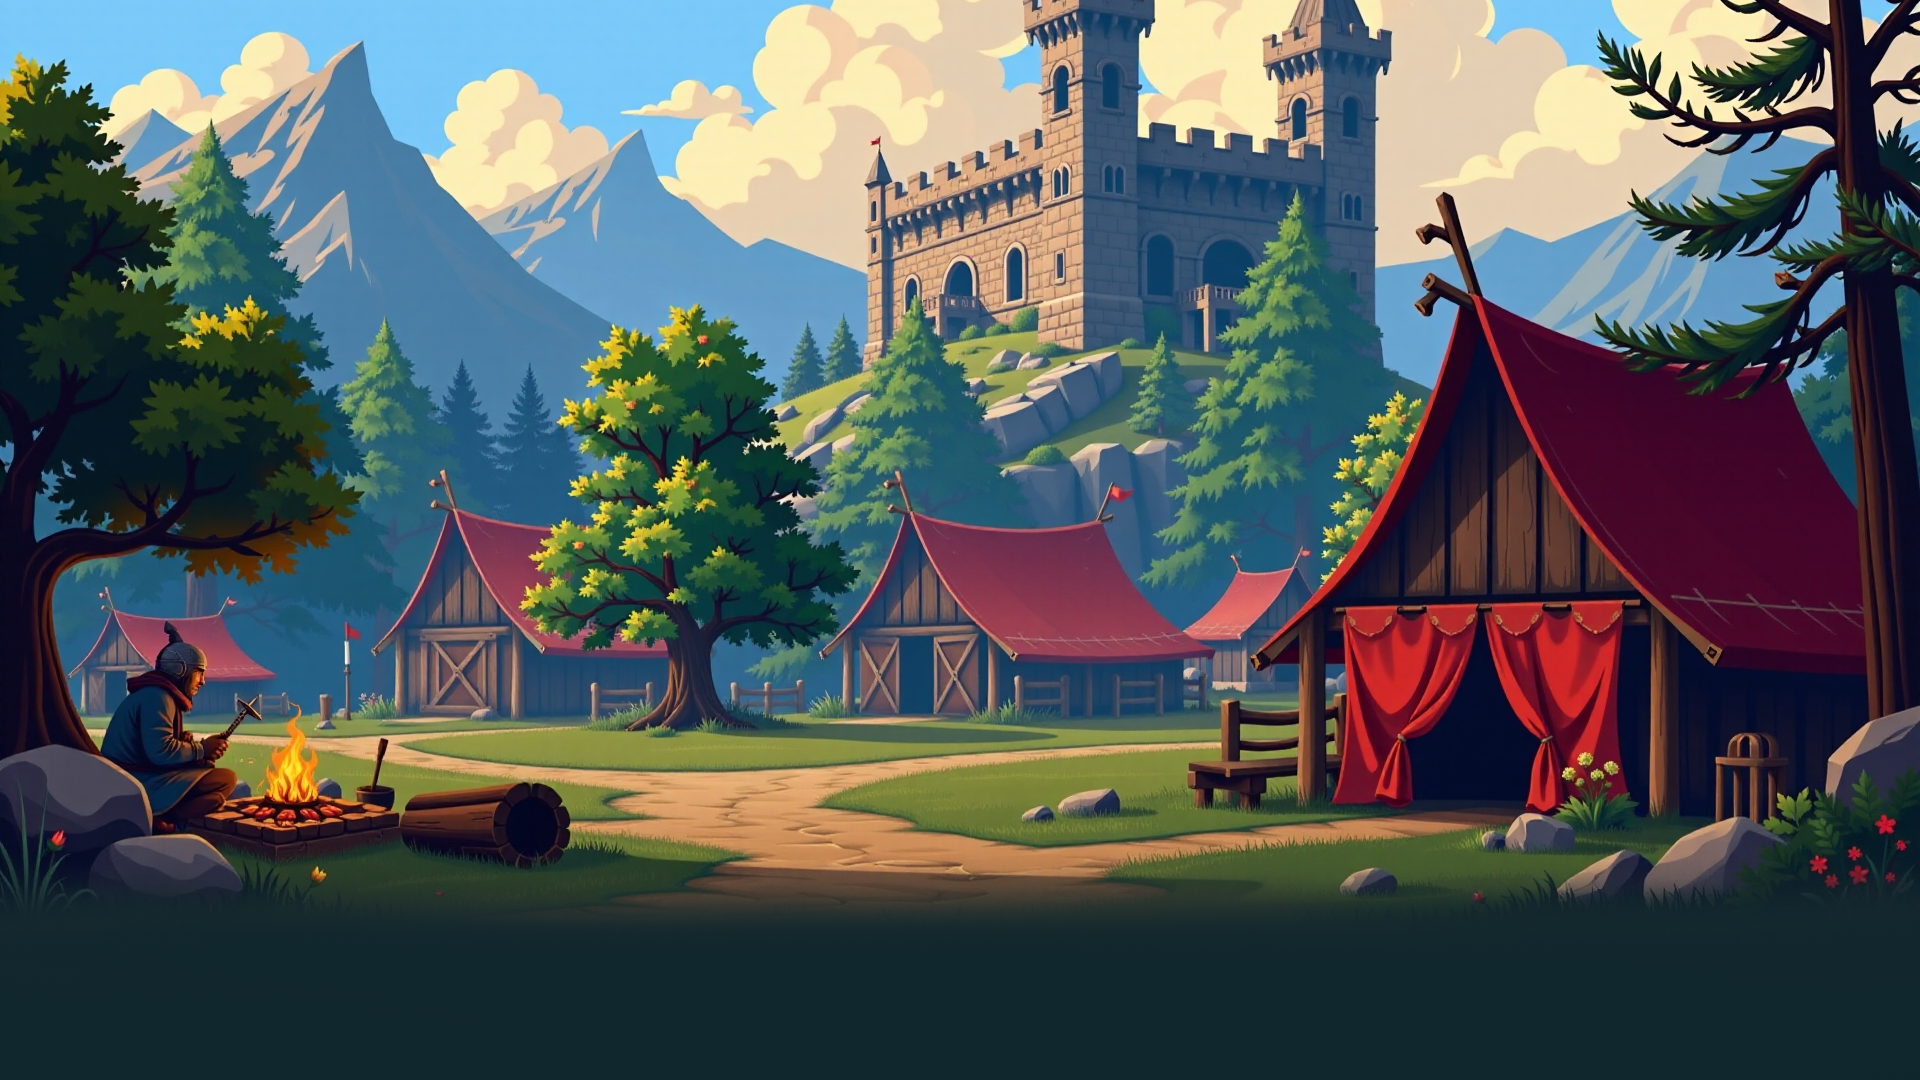
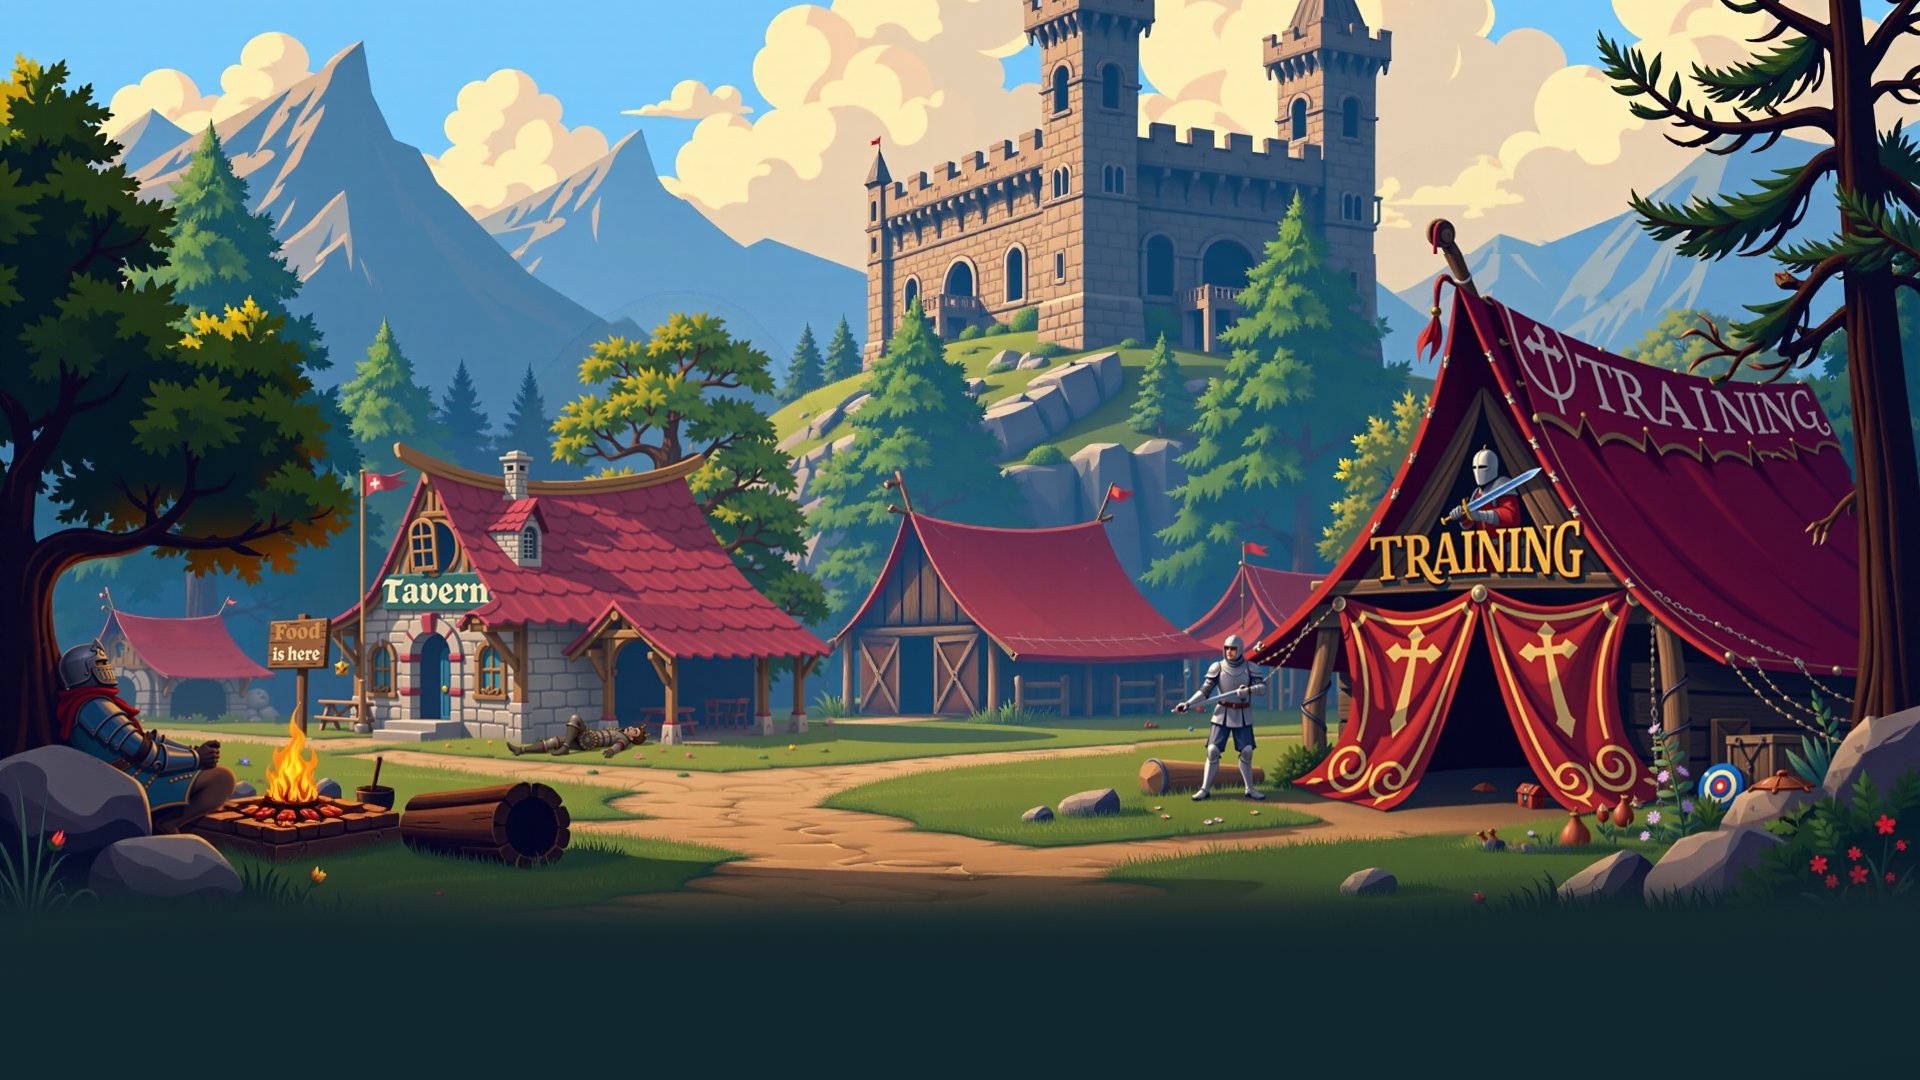
new file upload

Changed region(s): [[0.5938, 0.1528, 1.0, 0.7944], [0.0312, 0.275, 0.4688, 0.7639]]

diff --git a/gamestyle.css b/gamestyle.css
@@ -53,8 +53,8 @@
 /* Новый стиль для отображения урона */
 .damage-text {
   position: absolute;
-  top: 80%;
-  left: 70%;
+  top: 87%;
+  left: 62%;
   righ: 15%;
   transform: translate(50%, 50%); /* Центрируем по горизонтали и вертикали */
   font-family: Arial, sans-serif;
@@ -198,12 +198,29 @@
   width: 300px; /* Ширина кнопки */
   height: 280px; /* Высота кнопки */
   z-index: 10; /* Устанавливаем приоритет отображения выше панели */
+  clip-path: polygon(8.20% 46.88%,13.61% 29.34%,26.19% 15.92%,49.02% 10.40%,73.59% 16.65%,86.84% 34.77%,90.29% 57.93%,82.35% 76.37%,66.90% 89.23%,45.71% 93.70%,25.01% 85.94%,11.62% 69.32%); /* Пример произвольной формы */
+  cursor: pointer;  
 }
 
+.map:hover {
+  transform: scale(1.01); /* Эффект увеличения */
+ }
+ 
 .train {
-  background-image: url('./assets/training.png');
-  left: 597px; /* Позиция по горизонтали */
-  bottom: 95px; /* Позиция относительно нижней границы панели */
+  background-image: url('./assets/training_button.png');
+  left: 1065px; /* Позиция по горизонтали */
+  bottom: 204px; /* Позиция относительно нижней границы панели */  
+  width: 850px; /* Ширина кнопки */
+  height: 600px; /* Высота кнопки */
+  position: absolute; /* Убедитесь, что элемент позиционируется */
+  transition: transform 0.2s; /* Перенесено сюда для плавного эффекта */
+  clip-path: polygon(21.92% 62.89%,34.21% 42.09%,43.14% 0.00%,100.00% 34.68%,87.88% 99.80%,9.74% 98.32%,5.04% 84.87%); /* Пример произвольной формы */
+  cursor: pointer;
+  background-size: cover;
+}
+
+.train:hover {
+  transform: scale(1.01); /* Эффект увеличения */
 }
 
 .eat {
@@ -212,22 +229,43 @@
   bottom: 95px; /* Позиция относительно нижней границы панели */
 }
 
+.eat {
+  background-image: url('./assets/tavern_button.png');
+  left: 145px; /* Позиция по горизонтали */
+  bottom: 117px; /* Позиция относительно нижней границы панели */
+  width: 800px; /* Ширина кнопки */
+  height: 600px; /* Высота кнопки */
+  position: absolute; /* Убедитесь, что элемент позиционируется */
+  transition: transform 0.2s; /* Перенесено сюда для плавного эффекта */  
+  clip-path: polygon(13.10% 53.18%,23.84% 46.01%,26.75% 22.22%,70.87% 24.41%,88.30% 56.85%,83.62% 74.69%,51.17% 79.41%,28.93% 76.28%,14.28% 71.42%); /* Пример произвольной формы */
+  cursor: pointer;
+  background-size: cover;
+}
+
+.eat:hover {
+  transform: scale(1.01); /* Эффект увеличения */
+}
+
 /* Стиль для кнопки инвентаря */
 #inventory-button {
   position: absolute;
-  bottom: 110px;  /* Расположение снизу */
-  left: 220px;    /* Расположение слева */
+  bottom: 40px;  /* Расположение снизу */
+  left: 580px;    /* Расположение слева */
   width: 300px;   /* Ширина кнопки */
   height: 120px;  /* Высота кнопки */
   background-image: url('./assets/inventory.png'); /* Картинка кнопки */
   background-size: cover; /* Обеспечиваем, чтобы картинка покрывала кнопку */
   background-repeat: no-repeat;
   cursor: pointer;
-  z-index: 1000; /* Убедимся, что кнопка будет на переднем плане */
-  border: none;
-  border-radius: 5px;
-  box-shadow: 0 4px 8px rgba(0, 0, 0, 0.2); /* Легкая тень для кнопки */
+  z-index: 1000; /* Убедимся, что кнопка будет на переднем плане */  
   background-color: transparent; /* Прозрачный фон */
+  clip-path: polygon(0.00% 12.18%,42.44% 7.24%,97.20% 7.81%,95.47% 47.07%,99.58% 92.82%,70.40% 93.78%,4.14% 92.24%,0.13% 89.63%); /* Пример произвольной формы */
+  cursor: pointer;  
+  transition: transform 0.2s ease; /* Плавный переход */
+}
+
+#inventory-button:hover {
+  transform: scale(1.01); /* Увеличение кнопки до 105% при наведении */
 }
 
 /* Стиль для всплывающего окна инвентаря */

diff --git a/map.css b/map.css
@@ -81,7 +81,7 @@ html, body {
 .map-buttons-container button {
   font-size: 35px; /* Размер текста */
   font-weight: bold; /* Жирность текста */
-  color: #ffffff; /* Белый текст */
+  color: #d2b48c; /* Белый текст */
   text-shadow: 2px 2px 4px rgba(0, 0, 0, 0.7); /* Тень текста */
   text-transform: capitalize; /* Преобразует первую букву в заглавную */
   text-align: center; /* Выравнивание текста */

diff --git a/nicknameStyles.css b/nicknameStyles.css
@@ -8,7 +8,7 @@
   background-color: rgba(255, 255, 255, 0.9); /* Легкий фон для видимости */
   border: 1px solid #ccc;  
   border-radius: 5px;
-  top: 4px; /* Начальная позиция */
+  top: 5px; /* Начальная позиция */
   left: 145px; /* Начальная позиция */
 }
 
